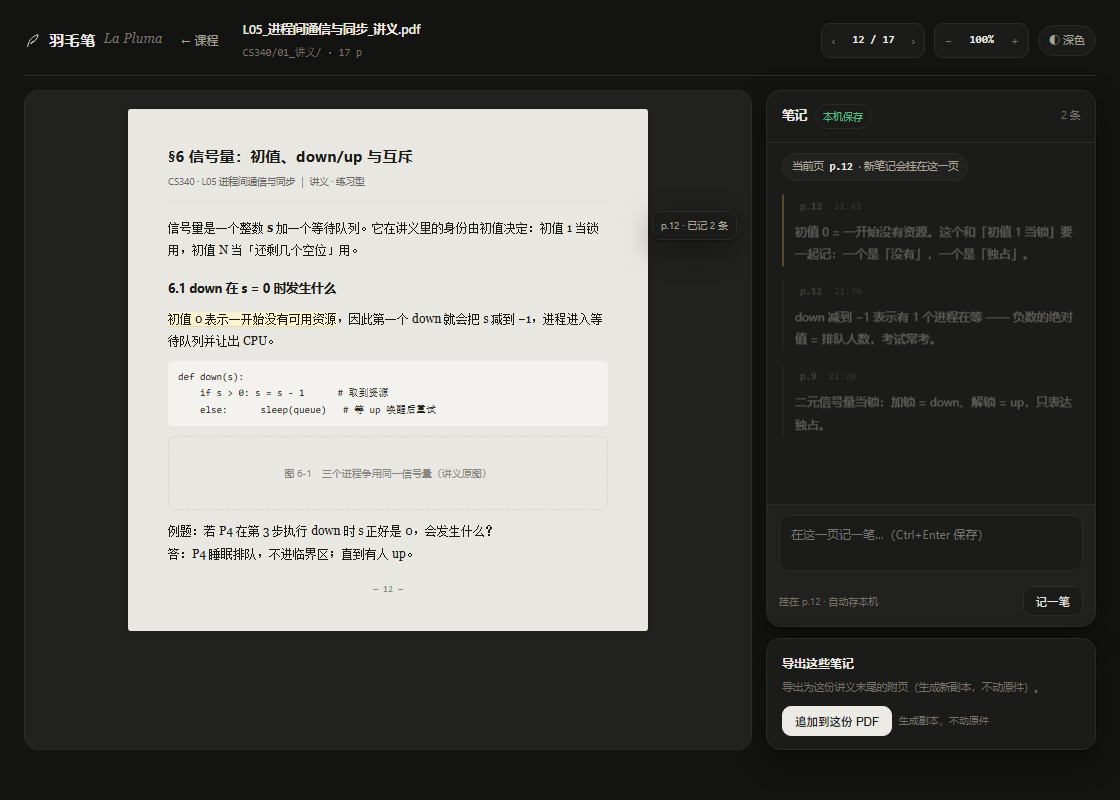
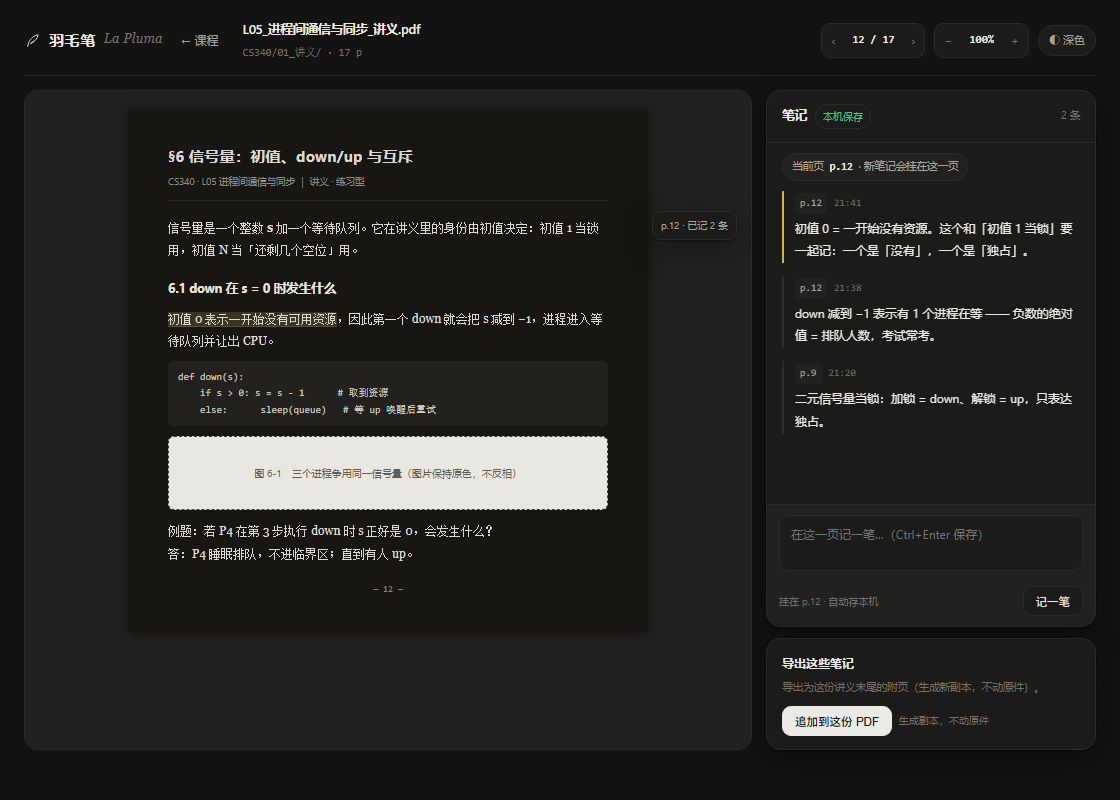
docs(预览): 深色下 PDF 页也反相（位图保护）+ 主机上线与访问码稿

diff --git a/docs/预览/README.md b/docs/预览/README.md
@@ -20,7 +20,8 @@
 | `06-会话-深色.png` | 同一页的深色主题（顶栏可切换） | 需求第 5 条（白天/黑夜可切换） | 待实现 |
 | `07-导出笔记.png` | 勾选 3 条对话 → 生成笔记 → 选一份讲义 PDF 追加到末尾 | 需求第 3 条（多选总结导出成笔记并附到 PDF） | 待实现 |
 | `08-阅读与笔记-浅色.png` | 应用内阅读 PDF：中间页面、右侧笔记侧栏、底部「在这一页记一笔」 | 需求：在软件里看 PDF + 侧栏笔记 + 当场写 | 待实现 |
-| `09-阅读与笔记-深色.png` | 同一页的深色主题 | 同上（R90 双主题） | 待实现 |
+| `09-阅读与笔记-深色.png` | 同一页的深色主题：**PDF 页面也变黑底白字**，位图（课件原图）保持原色不反相 | 同上（R90 双主题）+ 「PDF 里面也要换掉，除非是图片」 | 待实现 |
+| `10-主机上线与访问码.png` | 一键启动打印局域网地址与 8 位访问码；平板输入后进入 | A 方案：只在这台主机上线（局域网 + 访问码） | 待实现 |
 
 ## 怎么重拍 / 怎么加新稿
 
